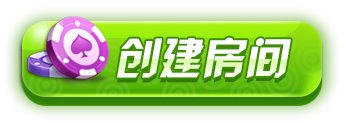
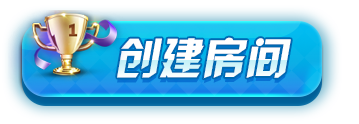
游戏主菜单修改

diff --git a/Classes/MainScene.cpp b/Classes/MainScene.cpp
@@ -14,7 +14,7 @@ using namespace ui;
 #define TAG_JOINGAME_BTN	2
 #define TAG_SHOP_BTN		3
 #define TAG_RANK_BTN		4
-#define TAG_GAMEHALL_BTN	5
+#define TAG_FREEDOMFIGHT_BTN	5
 #define TAG_NOTICE_BTN		6
 #define TAG_SETTING_BTN		7
 #define TAG_BACK_BTN		8
@@ -127,12 +127,12 @@ bool MainScene::initNotice()
 bool MainScene::initButtons()
 {
 	CCSize size = CCDirector::sharedDirector()->getWinSize();
-	Button* pGameHallBtn = Button::create("MainScene/gameHall-normal.png", "MainScene/gameHall-pressed.png");
-	if (!pGameHallBtn) return false;
+	Button* pJoinRoomBtn = Button::create("MainScene/joinRoom-normal.png", "MainScene/joinRoom-pressed.png");
+	if (!pJoinRoomBtn) return false;
 	Button* pCreateRoomBtn = Button::create("MainScene/createRoom-normal.png", "MainScene/createRoom-pressed.png");
 	if (!pCreateRoomBtn) return false;
-	Button* pJoinGameBtn = Button::create("MainScene/joinGame-normal.png", "MainScene/joinGame-pressed.png");
-	if (!pJoinGameBtn) return false;
+	Button* pFreedomFightBtn = Button::create("MainScene/freedomFight-normal.png", "MainScene/freedomFight-pressed.png");
+	if (!pFreedomFightBtn) return false;
 	Button* pSettingBtn = Button::create("MainScene/setting-normal.png", "MainScene/setting-pressed.png");
 	if (!pSettingBtn) return false;
 	Button* pBackBtn = Button::create("MainScene/back-normal.png", "MainScene/back-pressed.png");
@@ -145,9 +145,9 @@ bool MainScene::initButtons()
 	if (!pShopBtn) return false;
 
 	
-	pGameHallBtn->setTag(TAG_GAMEHALL_BTN);
+	pJoinRoomBtn->setTag(TAG_JOINGAME_BTN);
 	pCreateRoomBtn->setTag(TAG_CREATEROOM_BTN);
-	pJoinGameBtn->setTag(TAG_JOINGAME_BTN);
+	pFreedomFightBtn->setTag(TAG_FREEDOMFIGHT_BTN);
 	pShopBtn->setTag(TAG_SHOP_BTN);
 	pRankBtn->setTag(TAG_RANK_BTN);
 	pSettingBtn->setTag(TAG_SETTING_BTN);
@@ -155,17 +155,17 @@ bool MainScene::initButtons()
 	pNoticeBtn->setTag(TAG_NOTICE_BTN);
 
 	pCreateRoomBtn->setScale9Enabled(true);
-	pJoinGameBtn->setScale9Enabled(true);
+	pJoinRoomBtn->setScale9Enabled(true);
 	pShopBtn->setScale9Enabled(true);
-	pGameHallBtn->setScale9Enabled(true);
+	pFreedomFightBtn->setScale9Enabled(true);
 	pNoticeBtn->setScale9Enabled(true);
 	pRankBtn->setScale9Enabled(true);
 	pSettingBtn->setScale9Enabled(true);
 	pBackBtn->setScale9Enabled(true);
 
-	pGameHallBtn->setPosition(Director::getInstance()->convertToUI(Vec2(765 + pGameHallBtn->getContentSize().width / 2, 233)));
-	pCreateRoomBtn->setPosition(Director::getInstance()->convertToUI(Vec2(765 + pCreateRoomBtn->getContentSize().width / 2, 348)));
-	pJoinGameBtn->setPosition(Director::getInstance()->convertToUI(Vec2(765 + pJoinGameBtn->getContentSize().width / 2, 465)));
+	pJoinRoomBtn->setPosition(Director::getInstance()->convertToUI(Vec2(765 + pJoinRoomBtn->getContentSize().width / 2, 348)));
+	pCreateRoomBtn->setPosition(Director::getInstance()->convertToUI(Vec2(765 + pCreateRoomBtn->getContentSize().width / 2, 233)));
+	pFreedomFightBtn->setPosition(Director::getInstance()->convertToUI(Vec2(765 + pFreedomFightBtn->getContentSize().width / 2, 465)));
 	pNoticeBtn->setPosition(Director::getInstance()->convertToUI(Vec2(705 + pNoticeBtn->getContentSize().width / 2, 574 + pNoticeBtn->getContentSize().height / 2)));
 	pRankBtn->setPosition(Director::getInstance()->convertToUI(Vec2(840 + pRankBtn->getContentSize().width / 2, 574 + pRankBtn->getContentSize().height / 2)));
 	pShopBtn->setPosition(Director::getInstance()->convertToUI(Vec2(1050 + pShopBtn->getContentSize().width / 2, 550 + pShopBtn->getContentSize().height / 2)));
@@ -173,21 +173,21 @@ bool MainScene::initButtons()
 	pBackBtn->setPosition(Director::getInstance()->convertToUI(Vec2(1050 + pBackBtn->getContentSize().width / 2, 26 + pBackBtn->getContentSize().height / 2)));
 
 	pCreateRoomBtn->addTouchEventListener(CC_CALLBACK_2(MainScene::onBtnTouch,this));
-	pGameHallBtn->addTouchEventListener(CC_CALLBACK_2(MainScene::onBtnTouch, this));
+	pJoinRoomBtn->addTouchEventListener(CC_CALLBACK_2(MainScene::onBtnTouch, this));
 	pShopBtn->addTouchEventListener(CC_CALLBACK_2(MainScene::onBtnTouch, this));
 	pRankBtn->addTouchEventListener(CC_CALLBACK_2(MainScene::onBtnTouch, this));
-	pJoinGameBtn->addTouchEventListener(CC_CALLBACK_2(MainScene::onBtnTouch, this));
+	pFreedomFightBtn->addTouchEventListener(CC_CALLBACK_2(MainScene::onBtnTouch, this));
 	pSettingBtn->addTouchEventListener(CC_CALLBACK_2(MainScene::onBtnTouch, this));
 	pBackBtn->addTouchEventListener(CC_CALLBACK_2(MainScene::onBtnTouch, this));
 	pNoticeBtn->addTouchEventListener(CC_CALLBACK_2(MainScene::onBtnTouch, this));
 
 	this->addChild(pCreateRoomBtn);
-	this->addChild(pGameHallBtn);
+	this->addChild(pJoinRoomBtn);
 	this->addChild(pShopBtn);
 
 	this->addChild(pRankBtn);
 
-	this->addChild(pJoinGameBtn);
+	this->addChild(pFreedomFightBtn);
 	this->addChild(pSettingBtn);
 	this->addChild(pBackBtn);
 	this->addChild(pNoticeBtn);
@@ -236,15 +236,10 @@ void MainScene::onBtnTouch(Ref *pSender, Widget::TouchEventType type)
 		}
 		case TAG_JOINGAME_BTN:
 		{
+			log("join room!");
 			CCSize size = CCDirector::sharedDirector()->getWinSize();
 			PopupLayer* pl = PopupLayer::joinRoomDialog("popuplayer/joinRoomBg.png", Size(size.width / 9 * 7, size.height - 540));
-			//auto position = ccp((size.width) / 2, size.height / 2);
-			//pl->setAnchorPoint(ccp(0.5, 0.5));
-			//pl->setPosition(position);
-
 			butten->getParent()->addChild(pl);
-
-			//Director::getInstance()->replaceScene(GamePlayScene::createScene());
 			break;
 		}
 		case TAG_SHOP_BTN:
@@ -281,9 +276,10 @@ void MainScene::onBtnTouch(Ref *pSender, Widget::TouchEventType type)
 			break;
 		}
 
-		case TAG_GAMEHALL_BTN:
-			log("GAMEHALL");
+		case TAG_FREEDOMFIGHT_BTN:{
 			break;
+		}
+
 
 		case TAG_SETTING_BTN: {
 			log("SETTING");
